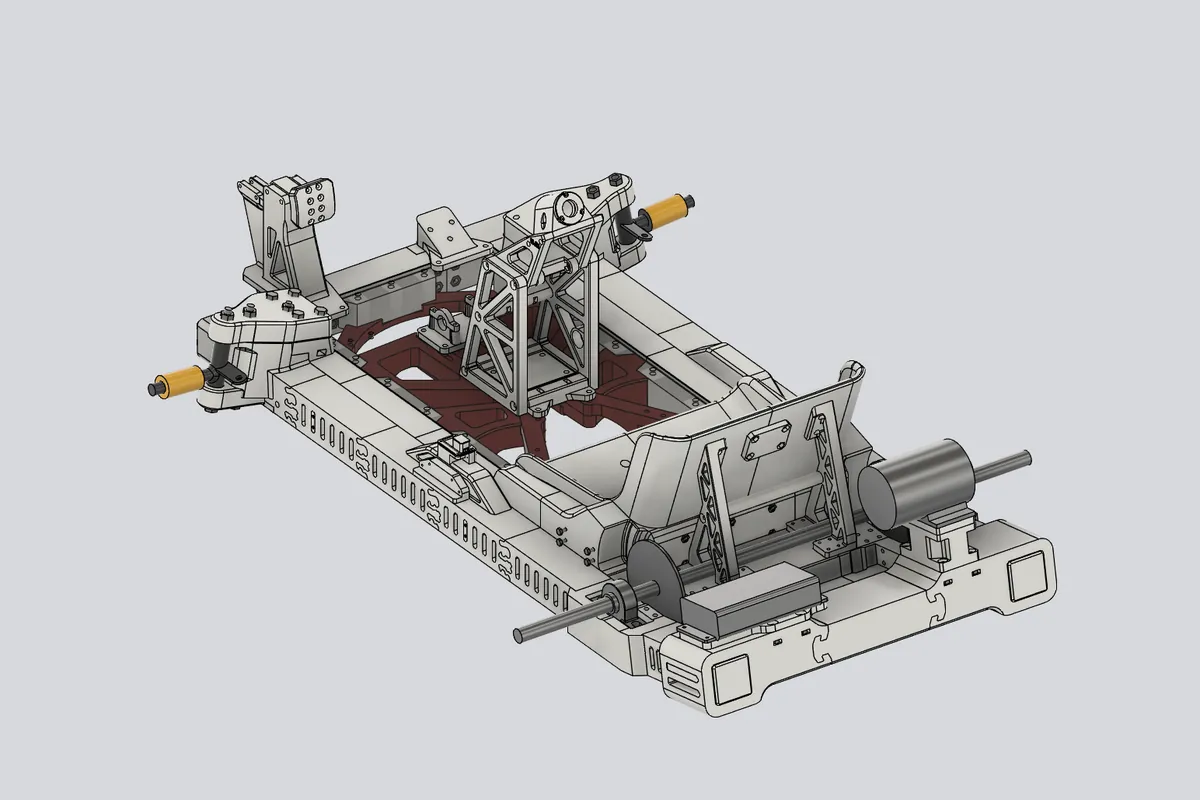
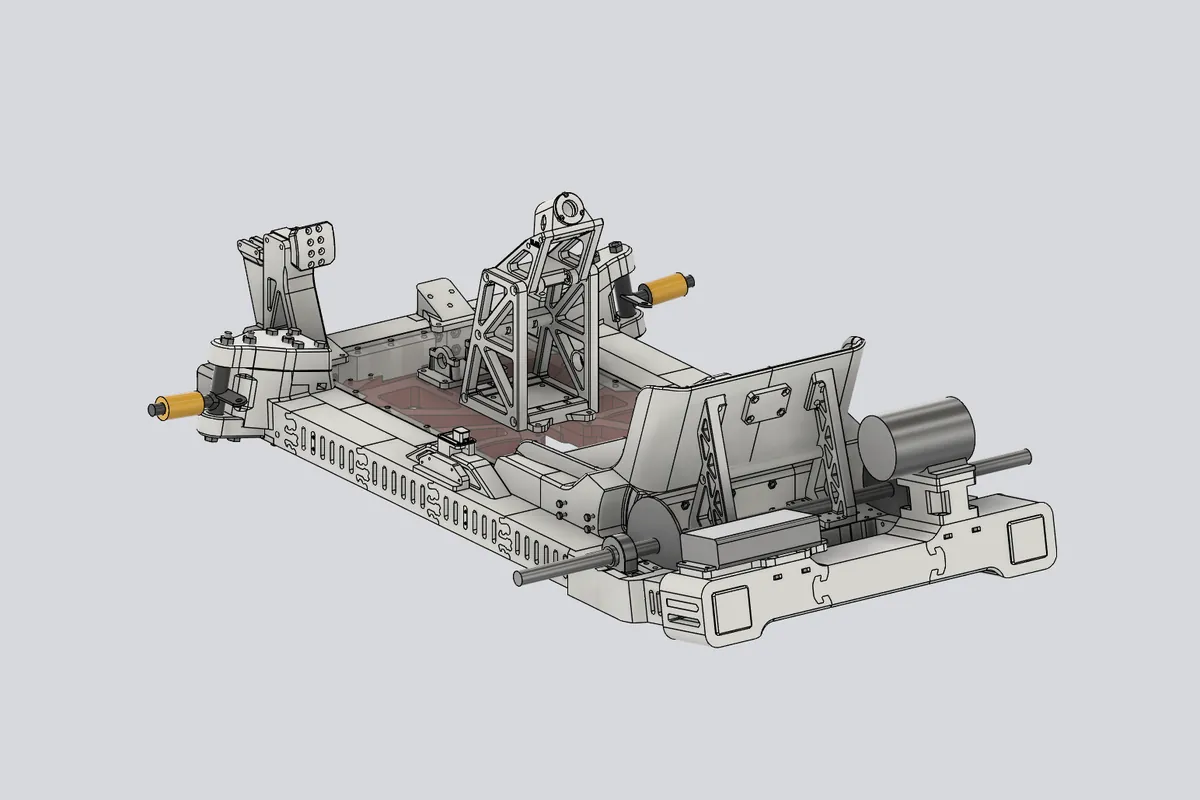
카트 360°: 36장·20°로 재촬영, 모바일 스와이프 수정(방향 판정+스크롤 차단), 관성 회전

Changed region(s): [[0.1233, 0.2188, 0.8942, 0.9062], [0.74, 0.7812, 0.7708, 0.8125]]

diff --git a/spin.js b/spin.js
@@ -1,33 +1,59 @@
-// 360° viewer: <div class="spin" data-src="a/spin/kart_{i}.webp" data-n="24"></div>
-// Drag/swipe sideways to rotate. Images load lazily when the viewer nears the screen.
+// 360° viewer: <div class="spin" data-src="a/spin/kart_{i}.webp" data-n="36" data-start="9"></div>
+// Drag (mouse) or swipe (touch) sideways to rotate, with a little momentum after release.
+// Touch: the first few pixels decide the gesture. Mostly sideways -> we rotate and block page scroll;
+// mostly up/down -> we let the page scroll. (Pointer events alone get cancelled by the browser's
+// scroll detection on phones, which is why only one frame moved per swipe.)
 document.querySelectorAll('.spin').forEach(el => {
   const n = +el.dataset.n, tpl = el.dataset.src;
   const url = i => tpl.replace('{i}', String(i).padStart(2, '0'));
   const img = new Image(); img.alt = el.dataset.alt || ''; img.draggable = false;
   img.width = +el.dataset.w || 1200; img.height = +el.dataset.h || 800;
   el.prepend(img);
-  const frames = []; let cur = +el.dataset.start || 0, loaded = false;
-  const show = i => { cur = (i % n + n) % n; img.src = url(cur); };
-  show(cur);
-  // preload all frames once visible, then spin one turn as a hint
+  let cur = +el.dataset.start || 0, pos = cur;           // pos = fractional frame position
+  const show = p => { pos = p; const i = ((Math.round(p) % n) + n) % n; if (i !== cur || !img.src) { cur = i; img.src = url(i); } };
+  img.src = url(cur);
+
+  // preload once near the screen, then one hint turn
+  let touched = false;
   new IntersectionObserver((es, io) => {
-    if (!es[0].isIntersecting || loaded) return; loaded = true; io.disconnect();
+    if (!es[0].isIntersecting) return; io.disconnect();
     let done = 0;
-    for (let i = 0; i < n; i++) { const p = new Image(); p.onload = () => { if (++done === n) hint(); }; p.src = url(i); frames.push(p); }
+    for (let i = 0; i < n; i++) { const p = new Image(); p.onload = p.onerror = () => { if (++done === n) hint(); }; p.src = url(i); }
   }, { rootMargin: '300px' }).observe(el);
-  let hinted = false, touched = false;
   function hint() {
-    if (hinted || touched || matchMedia('(prefers-reduced-motion: reduce)').matches) return; hinted = true;
-    let k = 0; const t = setInterval(() => { if (touched || ++k > n) return clearInterval(t); show(cur + 1); }, 60);
+    if (touched || matchMedia('(prefers-reduced-motion: reduce)').matches) return;
+    const start = pos, t0 = performance.now(), dur = 1600;
+    (function f(t) { if (touched) return; const k = Math.min(1, (t - t0) / dur), e = k < .5 ? 2 * k * k : 1 - (-2 * k + 2) ** 2 / 2;
+      show(start + e * n); if (k < 1) requestAnimationFrame(f); })(t0);
   }
-  // drag
-  let x0 = null, i0 = 0;
-  const step = () => Math.max(6, el.clientWidth / (n * 1.2));
-  el.addEventListener('pointerdown', e => { touched = true; el.classList.add('used'); x0 = e.clientX; i0 = cur; el.setPointerCapture(e.pointerId); el.classList.add('drag'); });
-  el.addEventListener('pointermove', e => { if (x0 === null) return; show(i0 - Math.round((e.clientX - x0) / step())); });
-  const end = () => { x0 = null; el.classList.remove('drag'); };
-  el.addEventListener('pointerup', end); el.addEventListener('pointercancel', end);
+
+  // shared drag logic: x in px -> frames; momentum on release
+  const pxPerFrame = () => Math.max(4, el.clientWidth / n);   // one screen width = one full turn
+  let x0 = 0, p0 = 0, lastX = 0, lastT = 0, vel = 0, raf = 0;
+  const begin = x => { touched = true; el.classList.add('used', 'drag'); cancelAnimationFrame(raf); x0 = lastX = x; p0 = pos; lastT = performance.now(); vel = 0; };
+  const move = x => { const t = performance.now(); vel = (x - lastX) / Math.max(1, t - lastT); lastX = x; lastT = t; show(p0 - (x - x0) / pxPerFrame()); };
+  const finish = () => { el.classList.remove('drag'); let v = -vel * 16 / pxPerFrame();  // frames per 16 ms
+    (function coast() { if (Math.abs(v) < 0.02) return; show(pos + v); v *= 0.93; raf = requestAnimationFrame(coast); })(); };
+
+  // touch
+  let axis = null, tx = 0, ty = 0;
+  el.addEventListener('touchstart', e => { const t = e.touches[0]; tx = t.clientX; ty = t.clientY; axis = null; }, { passive: true });
+  el.addEventListener('touchmove', e => {
+    const t = e.touches[0], dx = t.clientX - tx, dy = t.clientY - ty;
+    if (!axis) { if (Math.abs(dx) < 6 && Math.abs(dy) < 6) return; axis = Math.abs(dx) > Math.abs(dy) ? 'x' : 'y'; if (axis === 'x') begin(t.clientX); }
+    if (axis === 'x') { e.preventDefault(); move(t.clientX); }
+  }, { passive: false });
+  el.addEventListener('touchend', () => { if (axis === 'x') finish(); axis = null; });
+  el.addEventListener('touchcancel', () => { if (axis === 'x') finish(); axis = null; });
+
+  // mouse / pen
+  let down = false;
+  el.addEventListener('pointerdown', e => { if (e.pointerType === 'touch') return; down = true; el.setPointerCapture(e.pointerId); begin(e.clientX); });
+  el.addEventListener('pointermove', e => { if (down) move(e.clientX); });
+  const up = () => { if (down) { down = false; finish(); } };
+  el.addEventListener('pointerup', up); el.addEventListener('pointercancel', up);
+
   // keyboard
   el.tabIndex = 0;
-  el.addEventListener('keydown', e => { if (e.key === 'ArrowLeft') show(cur + 1); if (e.key === 'ArrowRight') show(cur - 1); });
+  el.addEventListener('keydown', e => { if (e.key === 'ArrowLeft') show(pos + 1); if (e.key === 'ArrowRight') show(pos - 1); });
 });

diff --git a/kart.html b/kart.html
@@ -56,7 +56,7 @@
   <div class="ver rv"><div class="tag"><b>V3</b><span>고2</span></div><h3>첫 전체 3D 프린팅 프레임</h3><p>처음으로 프레임 전체를 3D 프린팅으로 설계했습니다. 방향은 맞았지만 강성이 부족했습니다.</p><div class="x">개량</div></div>
   <div class="ver now rv"><div class="tag"><b>V4</b><span>고2~3</span></div><h3>지금 달리는 카트</h3><p>바깥 사각 프레임은 거의 그대로 두고, 중앙 구조를 새로 짰습니다. 의자를 프레임의 일부로 만들어 강성을 크게 높였고, 의자 이동을 위해 비워 두었던 공간은 전부 프레임으로 채웠습니다.</p><div class="x">완성</div></div>
  </div>
- <div class="shot spin rv" data-src="a/spin/kart_{i}.webp" data-n="24" data-start="6" data-w="1200" data-h="800" data-alt="V4 카트 설계 렌더. 좌우로 밀면 돌아갑니다" aria-label="카트 360도 보기"><span class="spin-chip">360°</span></div>
+ <div class="shot spin rv" data-src="a/spin/kart_{i}.webp" data-n="36" data-start="9" data-w="1200" data-h="800" data-alt="V4 카트 설계 렌더. 좌우로 밀면 돌아갑니다" aria-label="카트 360도 보기"><span class="spin-chip">360°</span></div>
  <p class="cap rv">좌우로 밀어서 돌려 보세요. 최종 V4 설계 모델</p>
 </section>
 

diff --git a/tools/spin_capture_fusion.py b/tools/spin_capture_fusion.py
@@ -2,16 +2,16 @@
 # Used for the kart viewer on 2026-11-23:
 #   document  : 3D GOKART / "카트 프로토타입2222222222" v184 (Y-up model)
 #   center    : bounding-box center of the root component, in cm
-#   camera    : orthographic, 30° above horizon, 600 cm away (distance only matters for ortho clipping)
-#   frames    : 24, every 15°, starting at 35°
+#   camera    : orthographic, 20° above horizon, 600 cm away (distance only matters for ortho clipping)
+#   frames    : 36, every 10°, starting at 35°
 #   zoom      : viewExtents 200 (same for every frame so the size never jumps)
 #   output    : 2400x1600 PNG, transparent background, anti-aliased
 # Then run spin_postprocess.py to crop all frames the same way and make the WebP files.
 import adsk.core, adsk.fusion, math, os
 
 OUT = r'C:/temp/spin'       # change
-N, START_DEG = 24, 35
-ELEV_DEG, DIST, EXTENTS = 30, 600.0, 200
+N, START_DEG = 36, 35
+ELEV_DEG, DIST, EXTENTS = 20, 600.0, 200
 W, H = 2400, 1600
 
 def run(_context: str):

diff --git a/tools/spin_postprocess.py b/tools/spin_postprocess.py
@@ -3,7 +3,7 @@
 # - one crop box for all frames (union of every frame's object box + 6% margin, 3:2), so the object never jumps
 # - background (215,216,220) = sampled from the site's kart render (a/kart_iso.jpg), so it matches the page
 # - 1200x800 WebP, quality 80
-# Viewer: spin.js, e.g. <div class="shot spin" data-src="a/spin/kart_{i}.webp" data-n="24" data-start="6">
+# Viewer: spin.js, e.g. <div class="shot spin" data-src="a/spin/kart_{i}.webp" data-n="36" data-start="9">
 import sys, glob, os
 from PIL import Image
 
